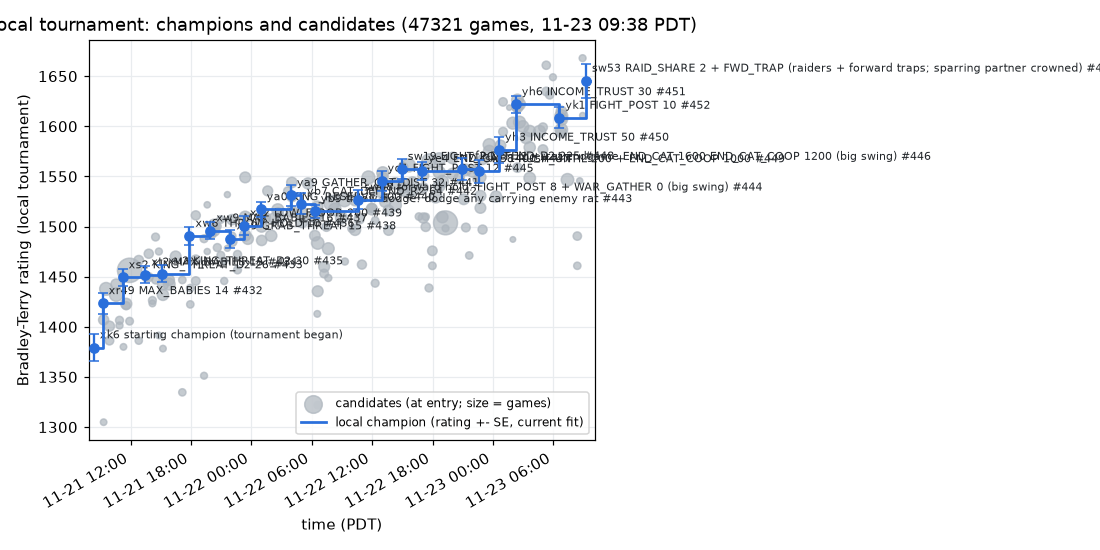
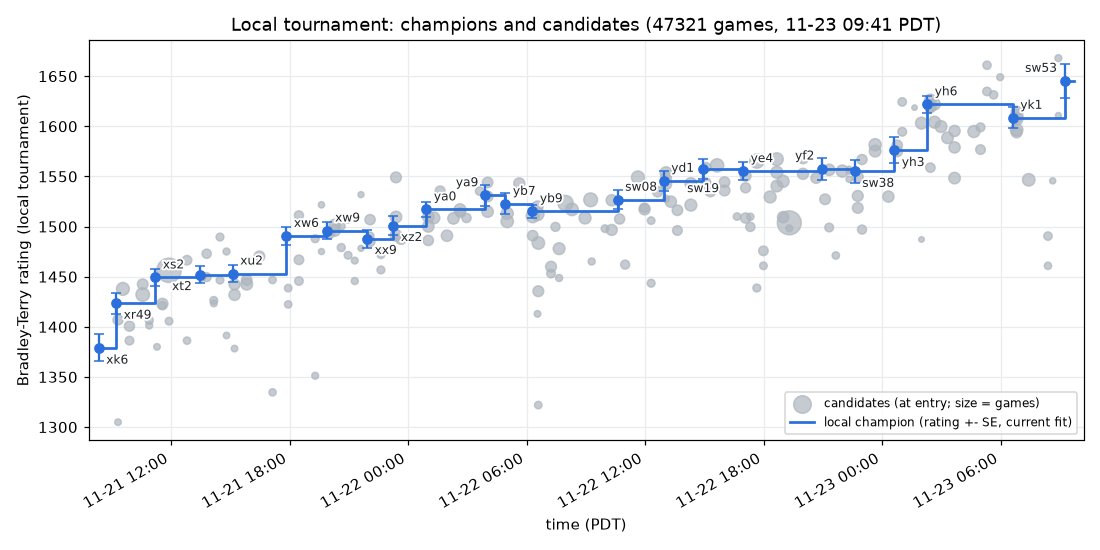
local-elo.png: champion labels are the bot name only, placed after the layout, so the plot keeps the full width
The full change text beside every champion widened the drawing and tight_layout shrank the axes to about half the
figure (owner 11-23). Each name now takes the first spot beside its point that stays inside the axes and clear of
the legend, the champion markers, error bars and steps, and the names already placed; a white halo keeps it
readable over the candidate dots. The changes stay in local-elo.md's table under the chart.

Claude-Session: https://claude.ai/code/session_01SzziPV5YmmvGU24CuZFoPc

diff --git a/tools/tourney.py b/tools/tourney.py
@@ -218,7 +218,7 @@ def cmd_chart(out=os.path.join(R, 'progress')):
     fig, ax = plt.subplots(figsize=(10, 5))
     ax.scatter([w for w, _ in cand], [r.rating for _, r in cand], s=[8 + r.games / 8 for _, r in cand],
                color='#adb5bd', alpha=0.7, label='candidates (at entry; size = games)', zorder=2)
-    xs, ys = [], []
+    xs, ys, labels = [], [], []
     for i, r in enumerate(hist):
         b = r['bot']
         if b not in rt:
@@ -227,9 +227,7 @@ def cmd_chart(out=os.path.join(R, 'progress')):
         xs += [r['when'], end]
         ys += [rt[b].rating, rt[b].rating]
         ax.errorbar([r['when']], [rt[b].rating], yerr=[rt[b].se], fmt='o', color='#2a6fdb', ms=6, capsize=3, zorder=4)
-        lab = b + (f" {r['change']}" if r['change'] else '') + (f" #{r['submission']}" if r['submission'] else '')
-        ax.annotate(lab, (r['when'], rt[b].rating), xytext=(4, 6), textcoords='offset points', fontsize=7.5,
-                    color='#212529')
+        labels.append((r['when'], rt[b].rating, rt[b].se, ys[-3] if len(ys) > 2 else rt[b].rating, b))
     ax.plot(xs, ys, color='#2a6fdb', lw=1.8, label='local champion (rating +- SE, current fit)', zorder=3)
     for i, (when, label) in enumerate(m for m in MS.read() if m[0] >= start - dt.timedelta(hours=1)):
         ax.axvline(when, color=MS.COLOR, ls='--', lw=1.3)
@@ -242,6 +240,32 @@ def cmd_chart(out=os.path.join(R, 'progress')):
     ax.legend(loc='lower right', fontsize=8)
     fig.autofmt_xdate()
     fig.tight_layout()
+    # Champion labels: the bot name only (local-elo.md's table gives each change and submission). They are placed
+    # after the layout, so they never shrink the plot: owner 11-23, the full change text beside every point squeezed
+    # the axes to half the figure. Each name takes the first spot beside its point that stays inside the axes and
+    # clear of the legend, of every champion's marker, error bar and step up, and of the names already placed.
+    import matplotlib.patheffects as pe
+    from matplotlib.transforms import Bbox
+    rend = fig.canvas.get_renderer()
+    box = ax.get_window_extent(rend)
+    taken = [ax.get_legend().get_window_extent(rend)]
+    for when, rating, se, prev, _ in labels:
+        x = mdates.date2num(when)
+        (x0, y0), (_, y1) = ax.transData.transform([(x, min(rating - se, prev)), (x, max(rating + se, prev))])
+        taken.append(Bbox([[x0 - 5, y0 - 5], [x0 + 5, y1 + 5]]))   # 5 px: the 3 pt caps and the 6 pt marker
+    spots = [((5, 4), 'left', 'bottom'), ((5, -4), 'left', 'top'), ((-5, 4), 'right', 'bottom'),
+             ((-5, -4), 'right', 'top'), ((0, 9), 'center', 'bottom'), ((0, -9), 'center', 'top')]
+    halo = [pe.withStroke(linewidth=2.5, foreground='white')]
+    for when, rating, se, prev, b in labels:
+        for k, (off, ha, va) in enumerate(spots):
+            t = ax.annotate(b, (when, rating), xytext=off, textcoords='offset points', ha=ha, va=va, fontsize=8,
+                            color='#212529', zorder=5, path_effects=halo)
+            bb = t.get_window_extent(rend)
+            inside = box.x0 <= bb.x0 and bb.x1 <= box.x1 and box.y0 <= bb.y0 and bb.y1 <= box.y1
+            if inside and not any(bb.overlaps(o) for o in taken) or k == len(spots) - 1:
+                taken.append(bb)
+                break
+            t.remove()
     fig.savefig(os.path.join(out, 'local-elo.png'), dpi=110)
     plt.close(fig)
     L = ['# Local tournament Elo', '',

diff --git a/PROMPTS.md b/PROMPTS.md
@@ -257,3 +257,4 @@ I'd like your initial focus to be fixing all bugs, writing more tests, and then 
 (06:49) Something is still wrong with your sparring bots, since they're worse than the champion, and yet the bots they imitate beat our champion.  Can you see if you can figure out the behavioral difference that explains this discrepancy?
 (07:18) Can you also do a bug audit on yk1?  If you find any bugs, fix them and add the fixed version to the local tournament.  Also make sure the unit tests are current
 (08:48) OK, good.  I'd like you to add a clause to the prod telling it to check for bugs and test compliance/coverage whenever we pick a new champion
+(09:41) Can you do something about the labels in local-elo.png?  They're reducing the amount of horizontal space available for the graph itself

diff --git a/progress/local-elo.md b/progress/local-elo.md
@@ -1,6 +1,6 @@
 # Local tournament Elo
 
-Bradley-Terry ratings of our own bots in the local tournament (`tools/tourney.py`), all 47321 games in one fit as of 2026-11-23 09:38 PDT, so every point is on the same scale; earlier champions are shown at their current rating. Regenerate with `tools/tourney.py chart`.
+Bradley-Terry ratings of our own bots in the local tournament (`tools/tourney.py`), all 47321 games in one fit as of 2026-11-23 09:41 PDT, so every point is on the same scale; earlier champions are shown at their current rating. Regenerate with `tools/tourney.py chart`.
 
 ![local elo](local-elo.png)
 
